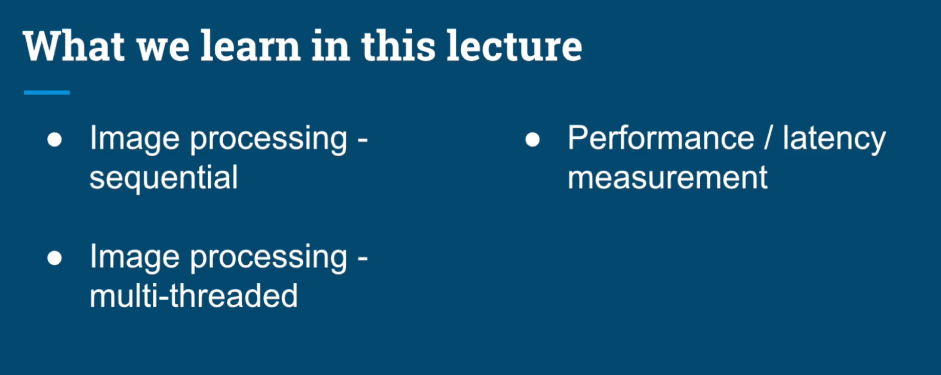
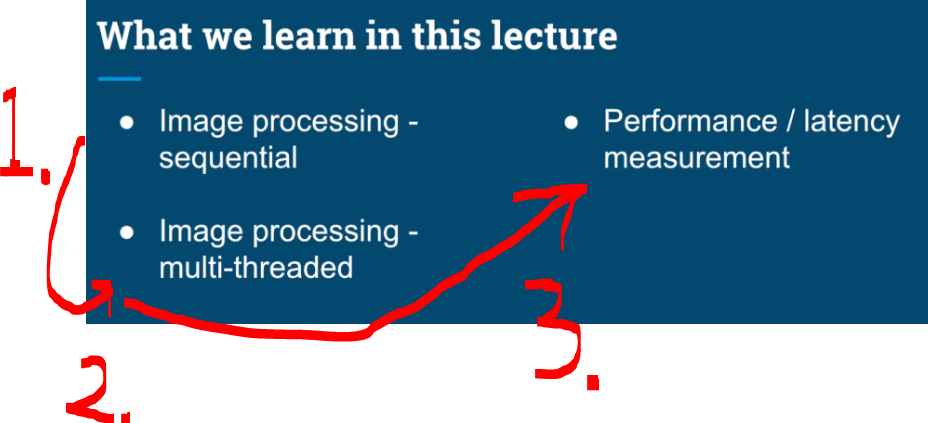
proceeded

diff --git a/Java Multithreading, Concurrency and Performance Optimization/Section 04/optimizing-for-latency-example/src/Main.java b/Java Multithreading, Concurrency and Performance Optimization/Section 04/optimizing-for-latency-example/src/Main.java
@@ -1,0 +1,139 @@
+/*
+ * Copyright (c) 2019-2023. Michael Pogrebinsky - Top Developer Academy
+ * https://topdeveloperacademy.com
+ * All rights reserved
+ */
+
+import javax.imageio.ImageIO;
+import java.awt.image.BufferedImage;
+import java.io.File;
+import java.io.IOException;
+import java.util.ArrayList;
+import java.util.List;
+
+/**
+ * Optimizing for Latency Part 2 - Image Processing
+ * https://www.udemy.com/java-multithreading-concurrency-performance-optimization
+ */
+public class Main {
+    public static final String SOURCE_FILE = "./resources/many-flowers.jpg";
+    public static final String DESTINATION_FILE = "./out/many-flowers.jpg";
+
+    public static void main(String[] args) throws IOException {
+
+        BufferedImage originalImage = ImageIO.read(new File(SOURCE_FILE));
+        BufferedImage resultImage = new BufferedImage(originalImage.getWidth(), originalImage.getHeight(), BufferedImage.TYPE_INT_RGB);
+
+        long startTime = System.currentTimeMillis();
+        //recolorSingleThreaded(originalImage, resultImage);
+        int numberOfThreads = 1;
+        recolorMultithreaded(originalImage, resultImage, numberOfThreads);
+        long endTime = System.currentTimeMillis();
+
+        long duration = endTime - startTime;
+
+        File outputFile = new File(DESTINATION_FILE);
+        ImageIO.write(resultImage, "jpg", outputFile);
+
+        System.out.println(String.valueOf(duration));
+    }
+
+    public static void recolorMultithreaded(BufferedImage originalImage, BufferedImage resultImage, int numberOfThreads) {
+        List<Thread> threads = new ArrayList<>();
+        int width = originalImage.getWidth();
+        int height = originalImage.getHeight() / numberOfThreads;
+
+        for(int i = 0; i < numberOfThreads ; i++) {
+            final int threadMultiplier = i;
+
+            Thread thread = new Thread(() -> {
+                int xOrigin = 0 ;
+                int yOrigin = height * threadMultiplier;
+
+                recolorImage(originalImage, resultImage, xOrigin, yOrigin, width, height);
+            });
+
+            threads.add(thread);
+        }
+
+        for(Thread thread : threads) {
+            thread.start();
+        }
+
+        for(Thread thread : threads) {
+            try {
+                thread.join();
+            } catch (InterruptedException e) {
+            }
+        }
+    }
+
+    public static void recolorSingleThreaded(BufferedImage originalImage, BufferedImage resultImage) {
+        recolorImage(originalImage, resultImage, 0, 0, originalImage.getWidth(), originalImage.getHeight());
+    }
+
+    public static void recolorImage(BufferedImage originalImage, BufferedImage resultImage, int leftCorner, int topCorner,
+                                    int width, int height) {
+        for(int x = leftCorner ; x < leftCorner + width && x < originalImage.getWidth() ; x++) {
+            for(int y = topCorner ; y < topCorner + height && y < originalImage.getHeight() ; y++) {
+                recolorPixel(originalImage, resultImage, x , y);
+            }
+        }
+    }
+
+    public static void recolorPixel(BufferedImage originalImage, BufferedImage resultImage, int x, int y) {
+        int rgb = originalImage.getRGB(x, y);
+
+        int red = getRed(rgb);
+        int green = getGreen(rgb);
+        int blue = getBlue(rgb);
+
+        int newRed;
+        int newGreen;
+        int newBlue;
+
+        if(isShadeOfGray(red, green, blue)) {
+            newRed = Math.min(255, red + 10);
+            newGreen = Math.max(0, green - 80);
+            newBlue = Math.max(0, blue - 20);
+        } else {
+            newRed = red;
+            newGreen = green;
+            newBlue = blue;
+        }
+        int newRGB = createRGBFromColors(newRed, newGreen, newBlue);
+        setRGB(resultImage, x, y, newRGB);
+    }
+
+    public static void setRGB(BufferedImage image, int x, int y, int rgb) {
+        image.getRaster().setDataElements(x, y, image.getColorModel().getDataElements(rgb, null));
+    }
+
+    public static boolean isShadeOfGray(int red, int green, int blue) {
+        return Math.abs(red - green) < 30 && Math.abs(red - blue) < 30 && Math.abs( green - blue) < 30;
+    }
+
+    public static int createRGBFromColors(int red, int green, int blue) {
+        int rgb = 0;
+
+        rgb |= blue;
+        rgb |= green << 8;
+        rgb |= red << 16;
+
+        rgb |= 0xFF000000;
+
+        return rgb;
+    }
+
+    public static int getRed(int rgb) {
+        return (rgb & 0x00FF0000) >> 16;
+    }
+
+    public static int getGreen(int rgb) {
+        return (rgb & 0x0000FF00) >> 8;
+    }
+
+    public static int getBlue(int rgb) {
+        return rgb & 0x000000FF;
+    }
+}

diff --git a/Java Multithreading, Concurrency and Performance Optimization/Section 04/README.md b/Java Multithreading, Concurrency and Performance Optimization/Section 04/README.md
@@ -67,7 +67,7 @@ Performance Optimization.
     <img src="Latency.PNG"  alt="Java threads." width="700"/>
 </div>
 
-1. We can say that &nbsp;&nbsp;&nbsp;&nbsp;&nbsp; $\text{Latency} = \frac{T}{N}$
+1. We can say that &nbsp;&nbsp;&nbsp;&nbsp;&nbsp;&nbsp;&nbsp;&nbsp;&nbsp; $\text{Latency} = \frac{T}{N}$
     - What is the level to which **gradual level** the tasks needs to be broken down, to be effect as possible?
 
 <div align="center">
@@ -179,7 +179,7 @@ $$
 </div>
 
 1. Task that **cannot** be braked down into own tasks.
-2. Tasks can be **parallelized** in their own **jobs**
+2. Tasks can be **parallelized** in their own **jobs**.
 
 <div align="center">
     <img src="Summary_Of_The_Performance_Optimization.PNG" width="700"/>
@@ -193,15 +193,63 @@ $$
     <img src="What_We_Will_Be_Learning_In_This_Chapter.PNG" width="700"/>
 </div>
 
+1. We will be following in this order:
+    - `1.` First we will be writing the **image processing** version, which is **sequential**.
+    - `2.` Then we will be **partition this task**
+    - `3.` Lastly we will be measuring it performance!
+
+<div align="center">
+    <img src="Picture_Took_By_The_Pro.PNG" width="700"/>
+</div>
+
+1. Picture took by Pro. There are **two colors** of the **flowers**!
+
+<div align="center">
+    <img src="Picture_Took_By_The_Pro_Closer.PNG" width="700"/>
+</div>
+
+1. We will be trying to color this white flower, with the program to the pinkish color!
+
+
 <div align="center">
     <img src="Introduction_To_The_Digital_Pictures.PNG" width="700"/>
 </div>
 
-1. This is around **12 million pixels**.
+1. This picture is `3036` **x** `4048`. This is around **12 million pixels**.
+2. In picture, there are **multiple color points**, which are called **pixels**.
 
 <div align="center">
     <img src="Pixels_Argb.PNG" width="700"/>
 </div>
+
+- **ARGB** we can represent pretty much any color! Can achieve this by **combining the colors**!
+
+<div align="center">
+    <img src="Using_The_Colors_For_Dedecting.gif" width="700"/>
+</div>
+
+1. We can get **pure colors** such as **red**, by increasing only one color value and keeping it other lowest as possible!
+2. We can get **purple** by **combine** high level of **red** and **blue**.
+3. Furthermore, we get different **shades of gray** if keep the colors **relatively the same**
+    - This can be from white, to all the way to the black.
+4. Lastly, if we look the white flower.
+    - There are **many shades of the gray** in it!
+
+<div align="center">
+    <img src="What_We_Will_Learn_At_First_The_Sequential_Processing_Module_First.PNG" width="700"/>
+</div>
+
+1. We will be writing the **processing** code first with the modular as possible!
+
+> [!TIP]
+> A `raster` = the **raw pixel** grid of the image! Example in **Java** `image.getRaster()`. Example picture repressed in pixels, below:
+> ⬛⬛⬛⬛⬜⬜⬛
+⬜⬜⬜⬛⬜⬜⬛
+⬜⬜⬜⬛⬜⬜⬛
+⬛⬛⬛⬛⬛⬛⬛
+⬛⬜⬜⬛⬜⬜⬜
+⬛⬜⬜⬛⬜⬜⬜
+⬛⬜⬜⬛⬛⬛⬛
 
 
 # Additional Resource - Image Processing, Color Spaces, Extraction & Manipulation.

diff --git a/Java Multithreading, Concurrency and Performance Optimization/Section 03/README.md b/Java Multithreading, Concurrency and Performance Optimization/Section 03/README.md
@@ -499,7 +499,6 @@ Please choose the correct statement.
 1. That is correct. As a rule of thumb, never leave a catch block empty, and use the `InterruptedException`
  catch block to gracefully stop the current thread (by adding some print or cleaning code before returning from the run method).
 
-> [!TIP]
 > As a **rule of thumb**, never leave a `catch` `block` empty, and use the `InterruptedException` `catch` `block` to gracefully stop the current thread (by adding some print or cleaning code before returning from the run method).
 
 </details>

diff --git a/Java Multithreading, Concurrency and Performance Optimization/Section 04/optimizing-for-latency-example/README.md b/Java Multithreading, Concurrency and Performance Optimization/Section 04/optimizing-for-latency-example/README.md
@@ -1,0 +1,13 @@
+Code examples for the online course [Java Multithreading, Concurrency & Performance Optimization](https://www.udemy.com/java-multithreading-concurrency-performance-optimization)
+
+Author : Michael Pogrebinsky
+
+### To open the project using Intellij
+
+1. File -> New -> "Project from Existing Sources" or "Import Project".
+2. Select the project directory.
+3. Select "Create Project from Existing Sources" and click "Next" repeatedly until the last window.
+4. Click "Finish"
+
+
+
